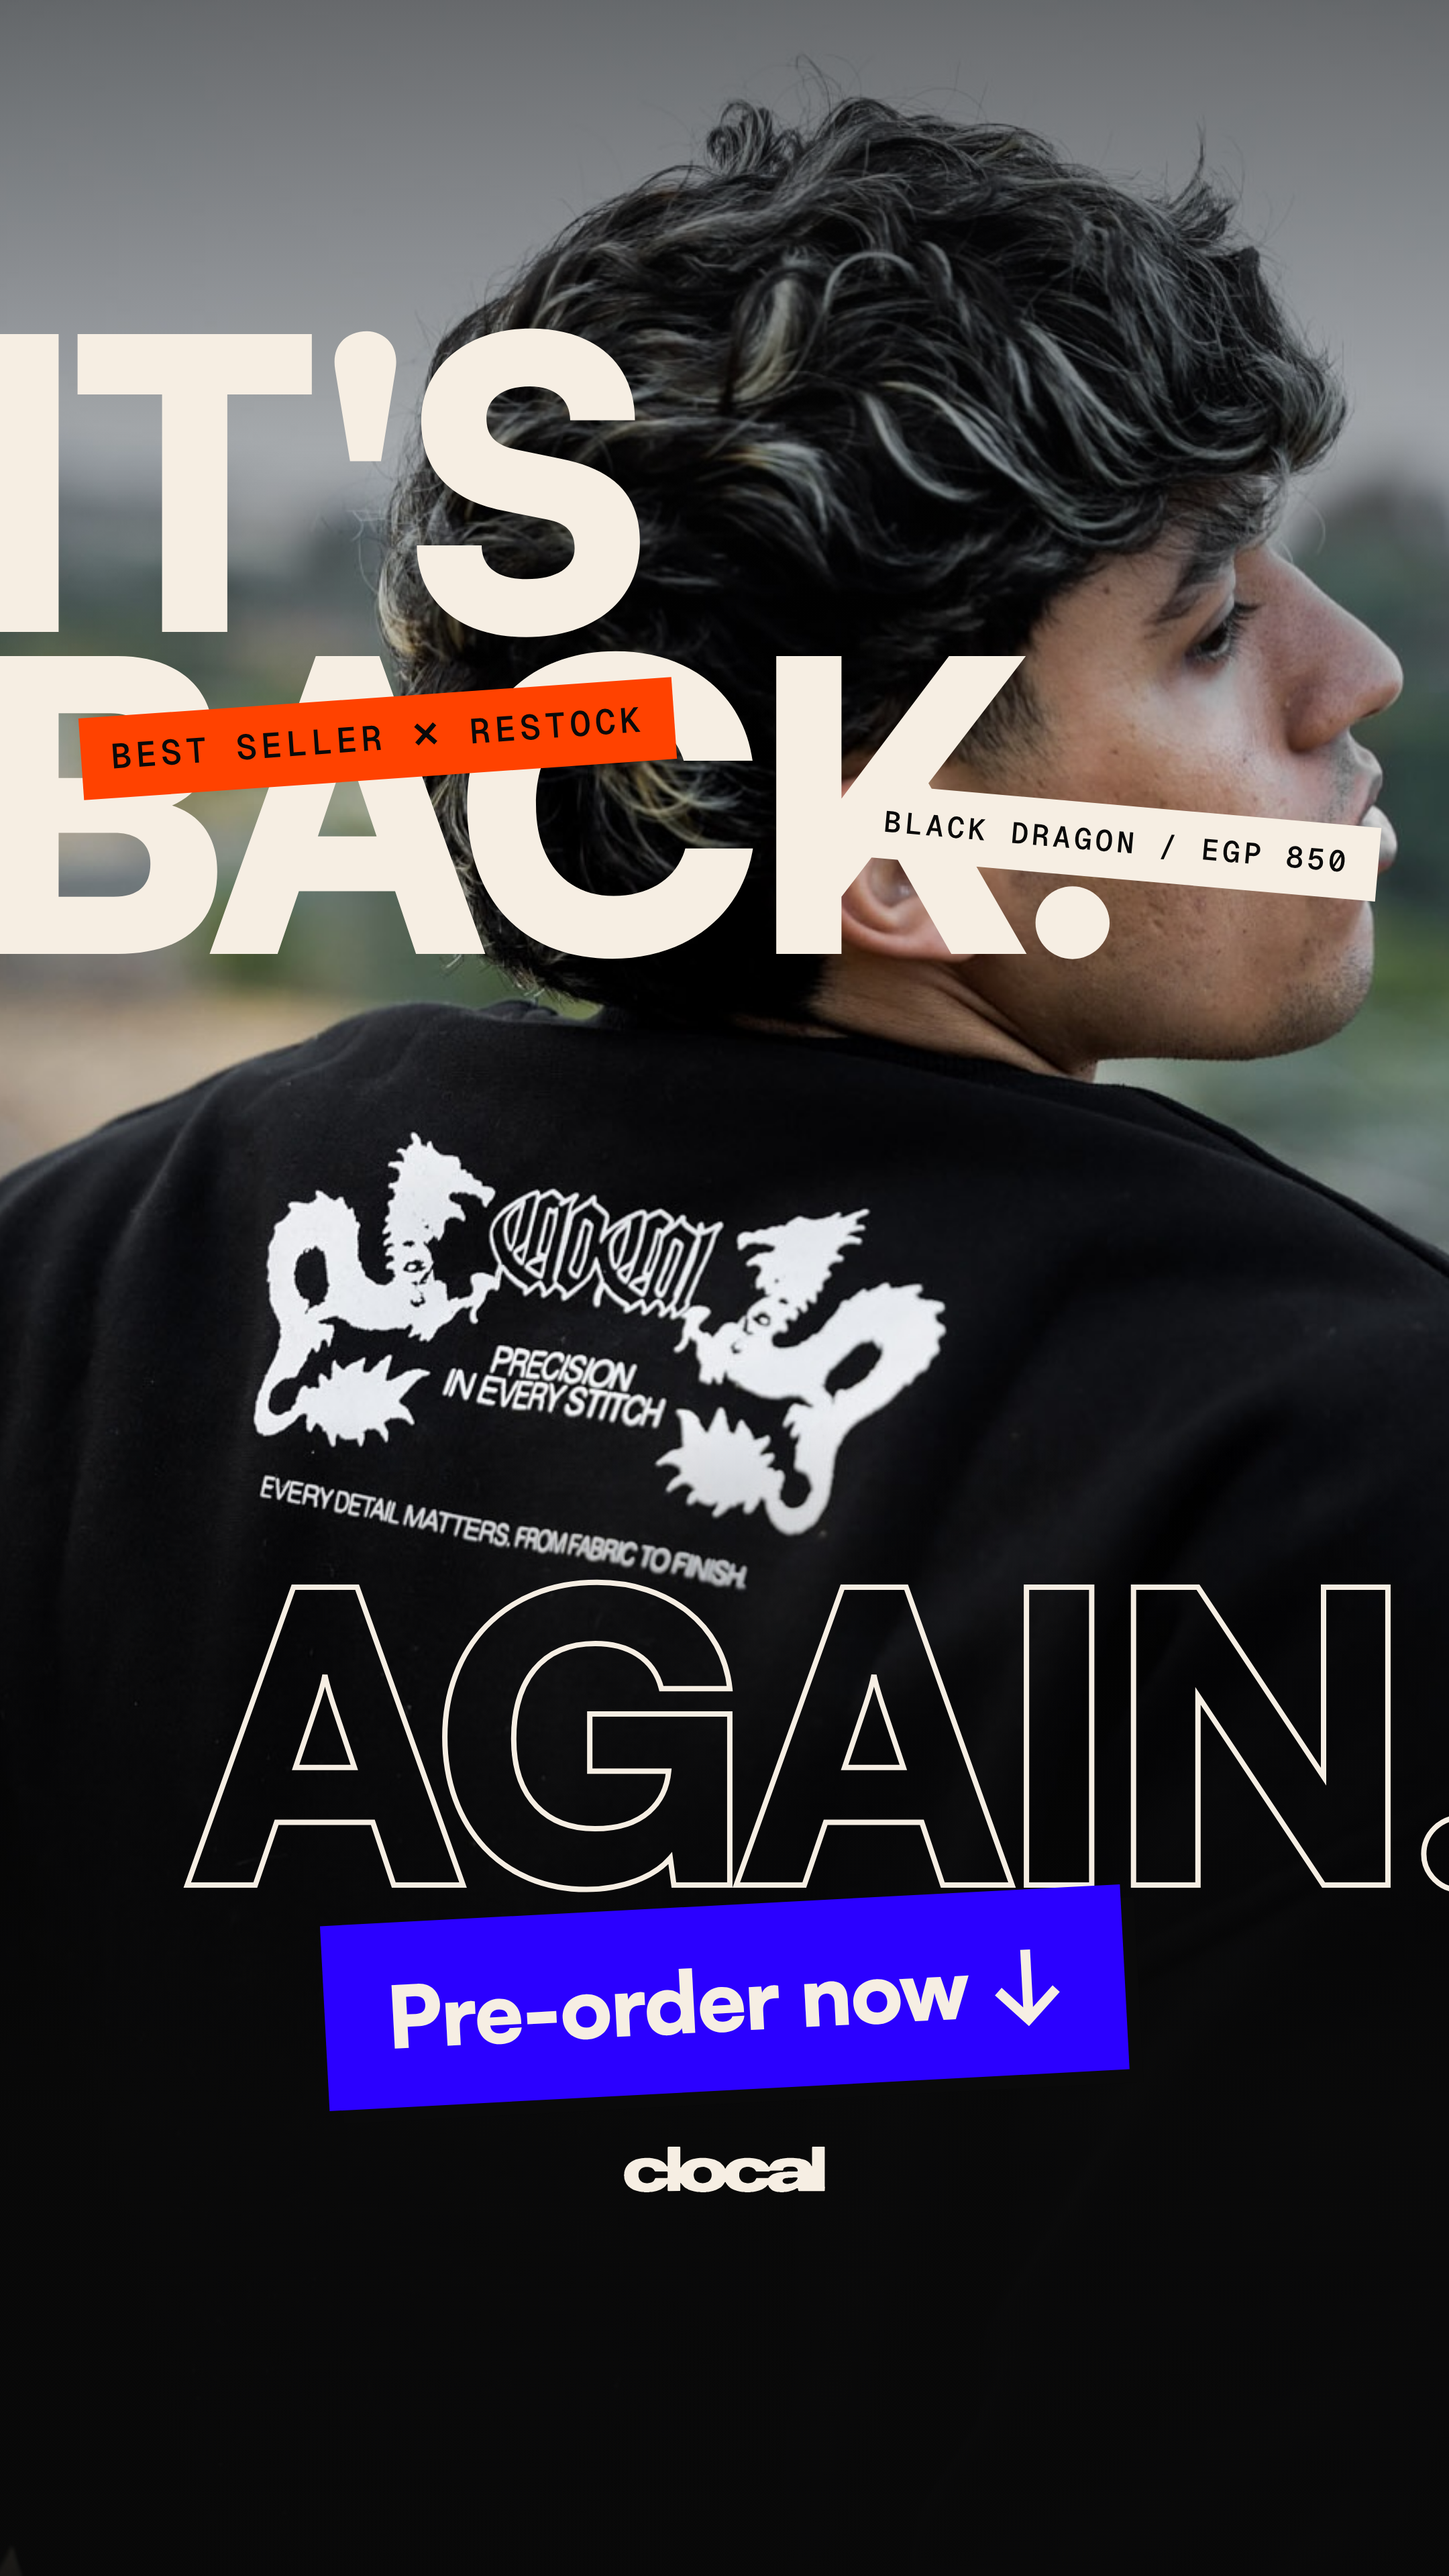
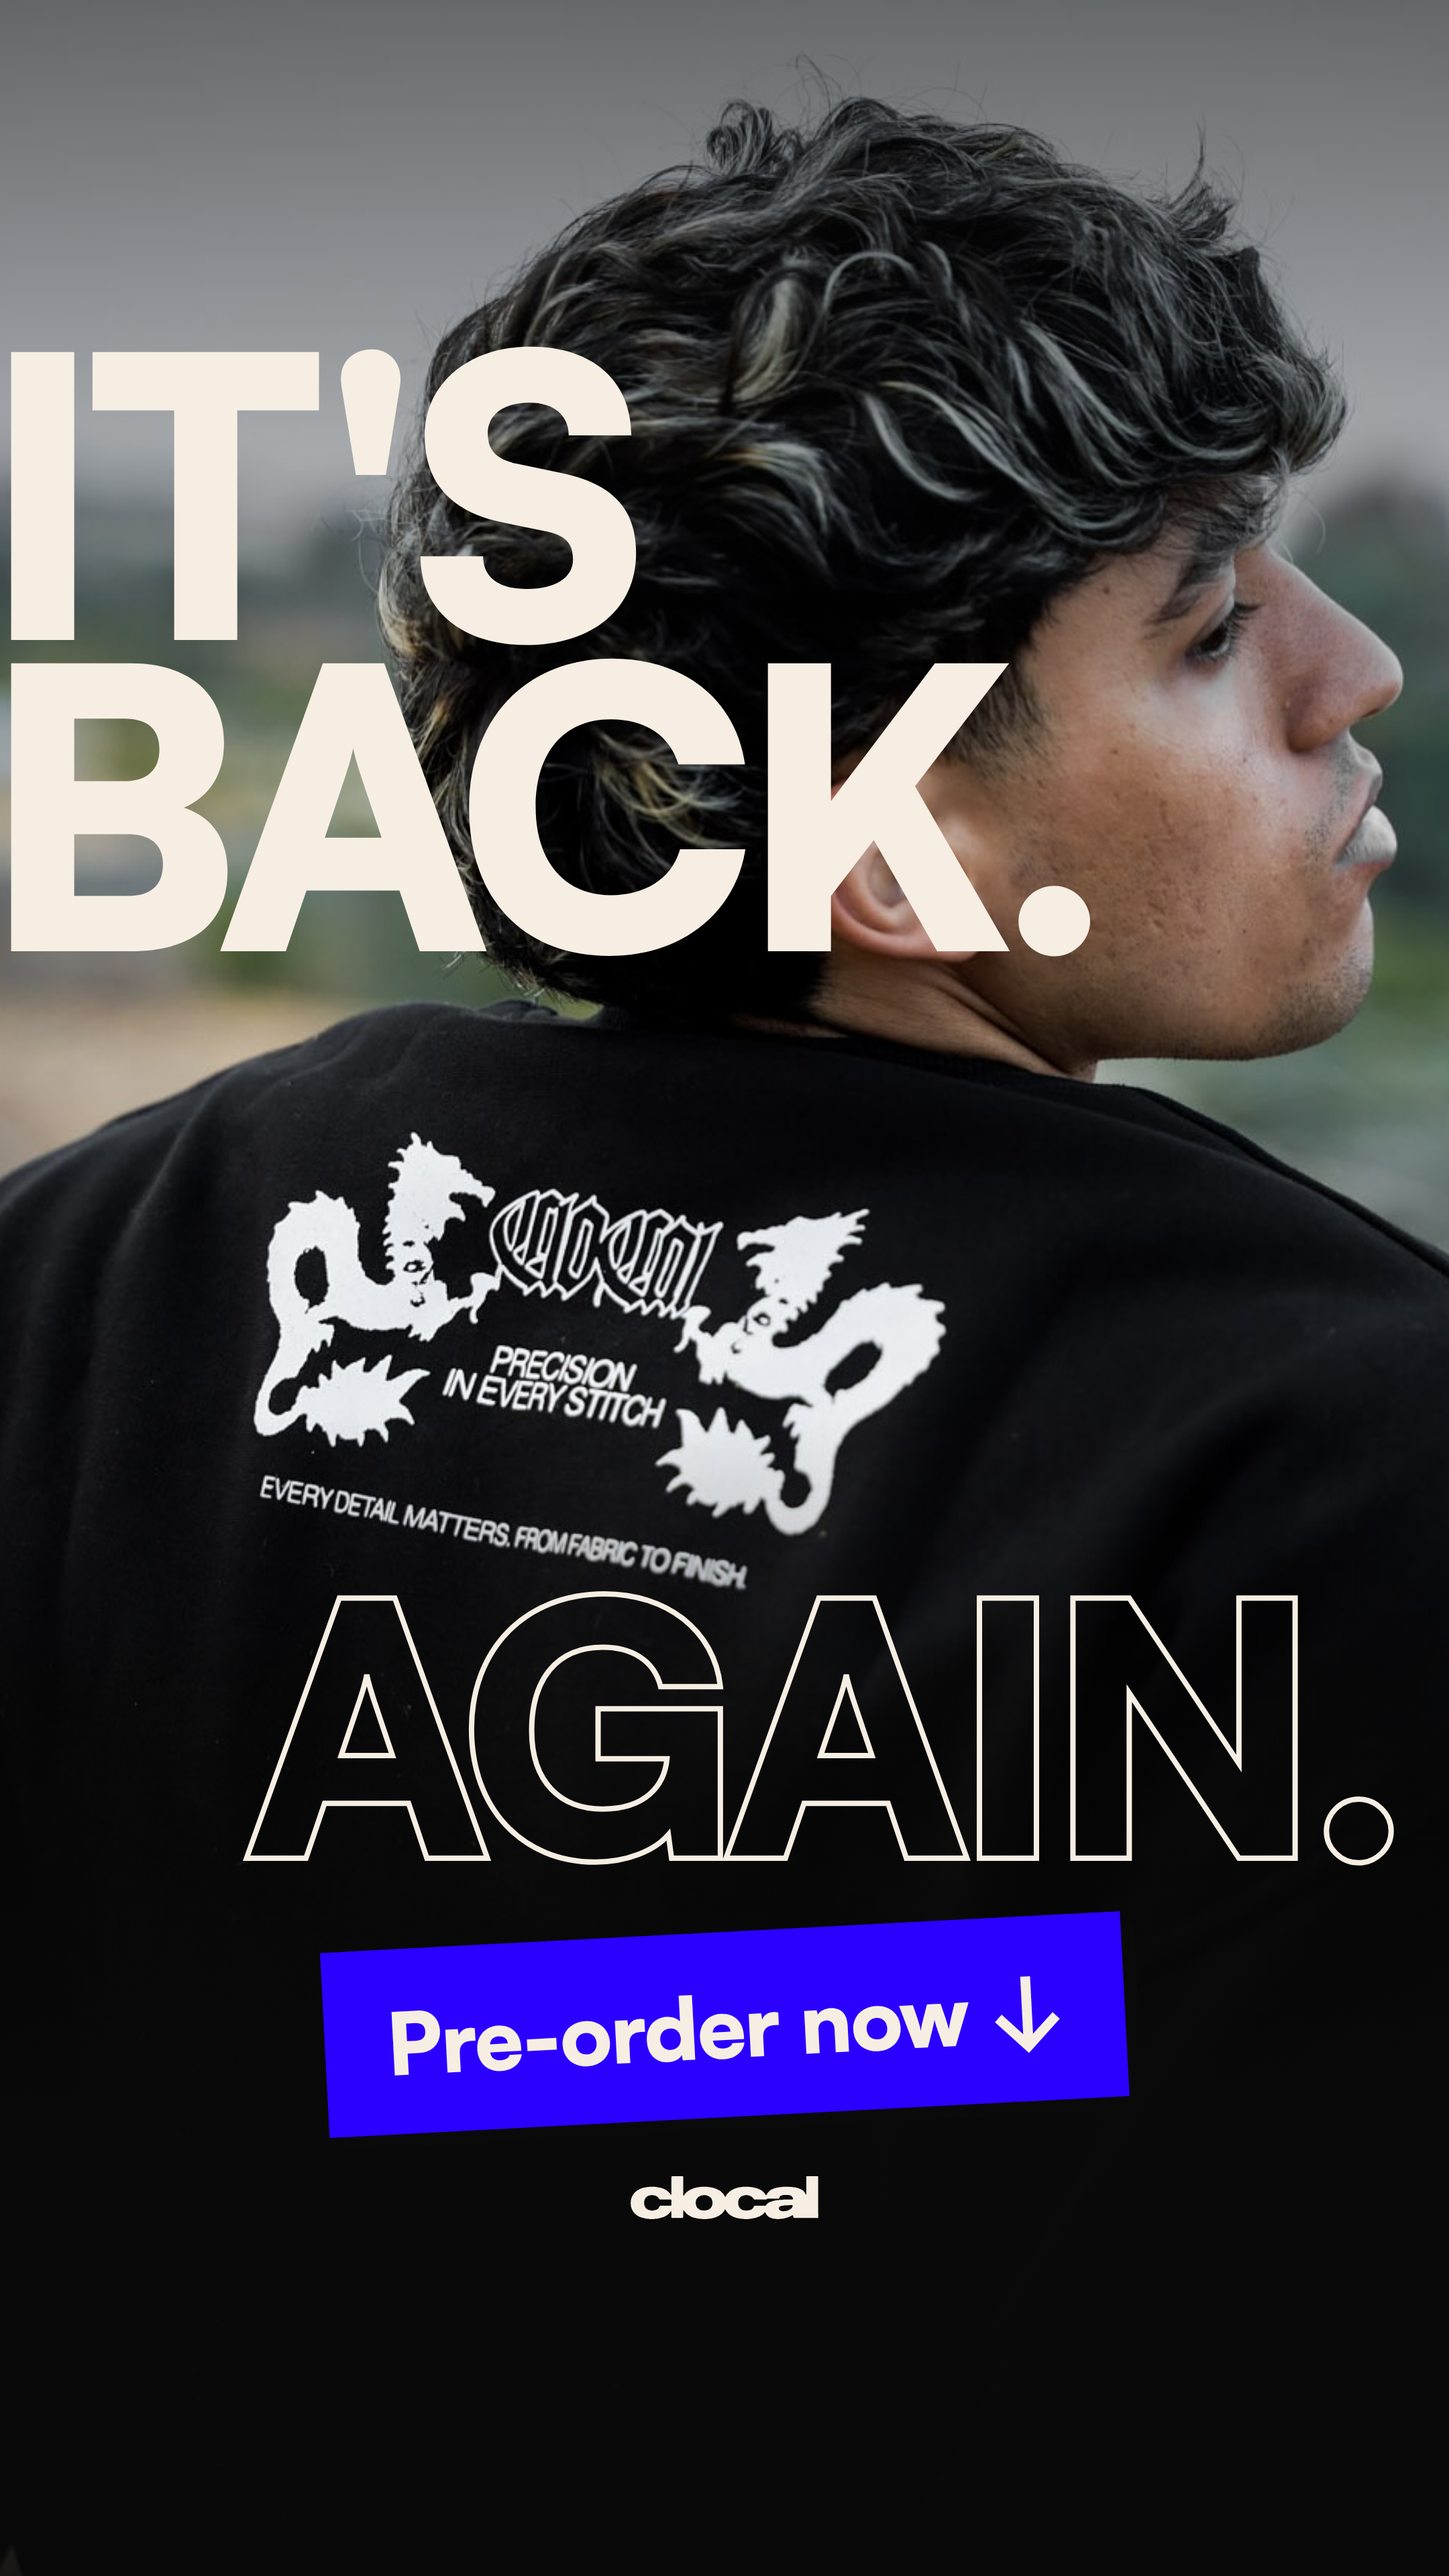
Simplify streetwear story poster: drop small tags, tighten type
Claude-Session: https://claude.ai/code/session_0134z9woteaCD6XRmPMXin1q

Changed region(s): [[0.1241, 0.5938, 0.9616, 0.875], [0.0, 0.125, 0.4963, 0.375], [0.4963, 0.25, 0.9616, 0.375]]

diff --git a/clocal-black-dragon-ads/src/story-poster-street_9x16.html b/clocal-black-dragon-ads/src/story-poster-street_9x16.html
@@ -5,15 +5,15 @@
   .ph { left: 0; top: 0; width: 1080px; height: 1920px; }
   .shade { position: absolute; inset: 0; background: linear-gradient(180deg, rgba(10,10,10,.55) 0%, rgba(10,10,10,0) 30%, rgba(10,10,10,0) 55%, rgba(10,10,10,.85) 82%); }
   .big { position: absolute; font-family: "Satoshi"; font-weight: 900; letter-spacing: -0.05em; line-height: .8; color: var(--cream); text-transform: uppercase; white-space: nowrap; }
-  .b1 { left: -28px; top: 236px; font-size: 300px; }
-  .b2 { right: -40px; top: 1170px; font-size: 300px; -webkit-text-stroke: 4px var(--cream); color: transparent; }
+  .b1 { left: -14px; top: 250px; font-size: 290px; }
+  .b2 { right: 40px; top: 1180px; font-size: 262px; -webkit-text-stroke: 4px var(--cream); color: transparent; }
   .tape { position: absolute; font-family: "Geist Mono"; font-weight: 600; text-transform: uppercase; letter-spacing: .12em; padding: 14px 22px; }
   .t1 { left: 60px; top: 520px; background: var(--orange); color: var(--ink); font-size: 26px; transform: rotate(-4deg); }
   .t2 { right: 52px; top: 600px; background: var(--cream); color: var(--ink); font-size: 22px; transform: rotate(5deg); }
   .t3 { left: 70px; top: 1110px; background: var(--ink); color: var(--cream); font-size: 20px; transform: rotate(-2deg); }
-  .sticker { position: absolute; left: 50%; top: 1420px; transform: translateX(-50%) rotate(-3deg); background: var(--blue); color: var(--cream);
+  .sticker { position: absolute; left: 50%; top: 1440px; transform: translateX(-50%) rotate(-3deg); background: var(--blue); color: var(--cream);
              font-family: "Satoshi"; font-weight: 900; font-size: 64px; letter-spacing: -0.02em; padding: 26px 46px; box-shadow: 10px 10px 0 var(--ink); white-space: nowrap; }
-  .wm { position: absolute; left: 50%; transform: translateX(-50%); top: 1600px; width: 150px; color: var(--cream); }
+  .wm { position: absolute; left: 50%; transform: translateX(-50%); top: 1622px; width: 140px; color: var(--cream); }
 </style></head>
 <body>
 <div class="ad story ink">
@@ -21,8 +21,6 @@
   <div class="shade"></div>
   <div class="big b1">It's<br>back.</div>
   <span class="wm"></span>
-  <div class="tape t1">Best seller ✕ restock</div>
-  <div class="tape t2">Black Dragon / EGP 850</div>
   <div class="big b2">Again.</div>
   <div class="sticker">Pre-order now ↓</div>
 </div>
